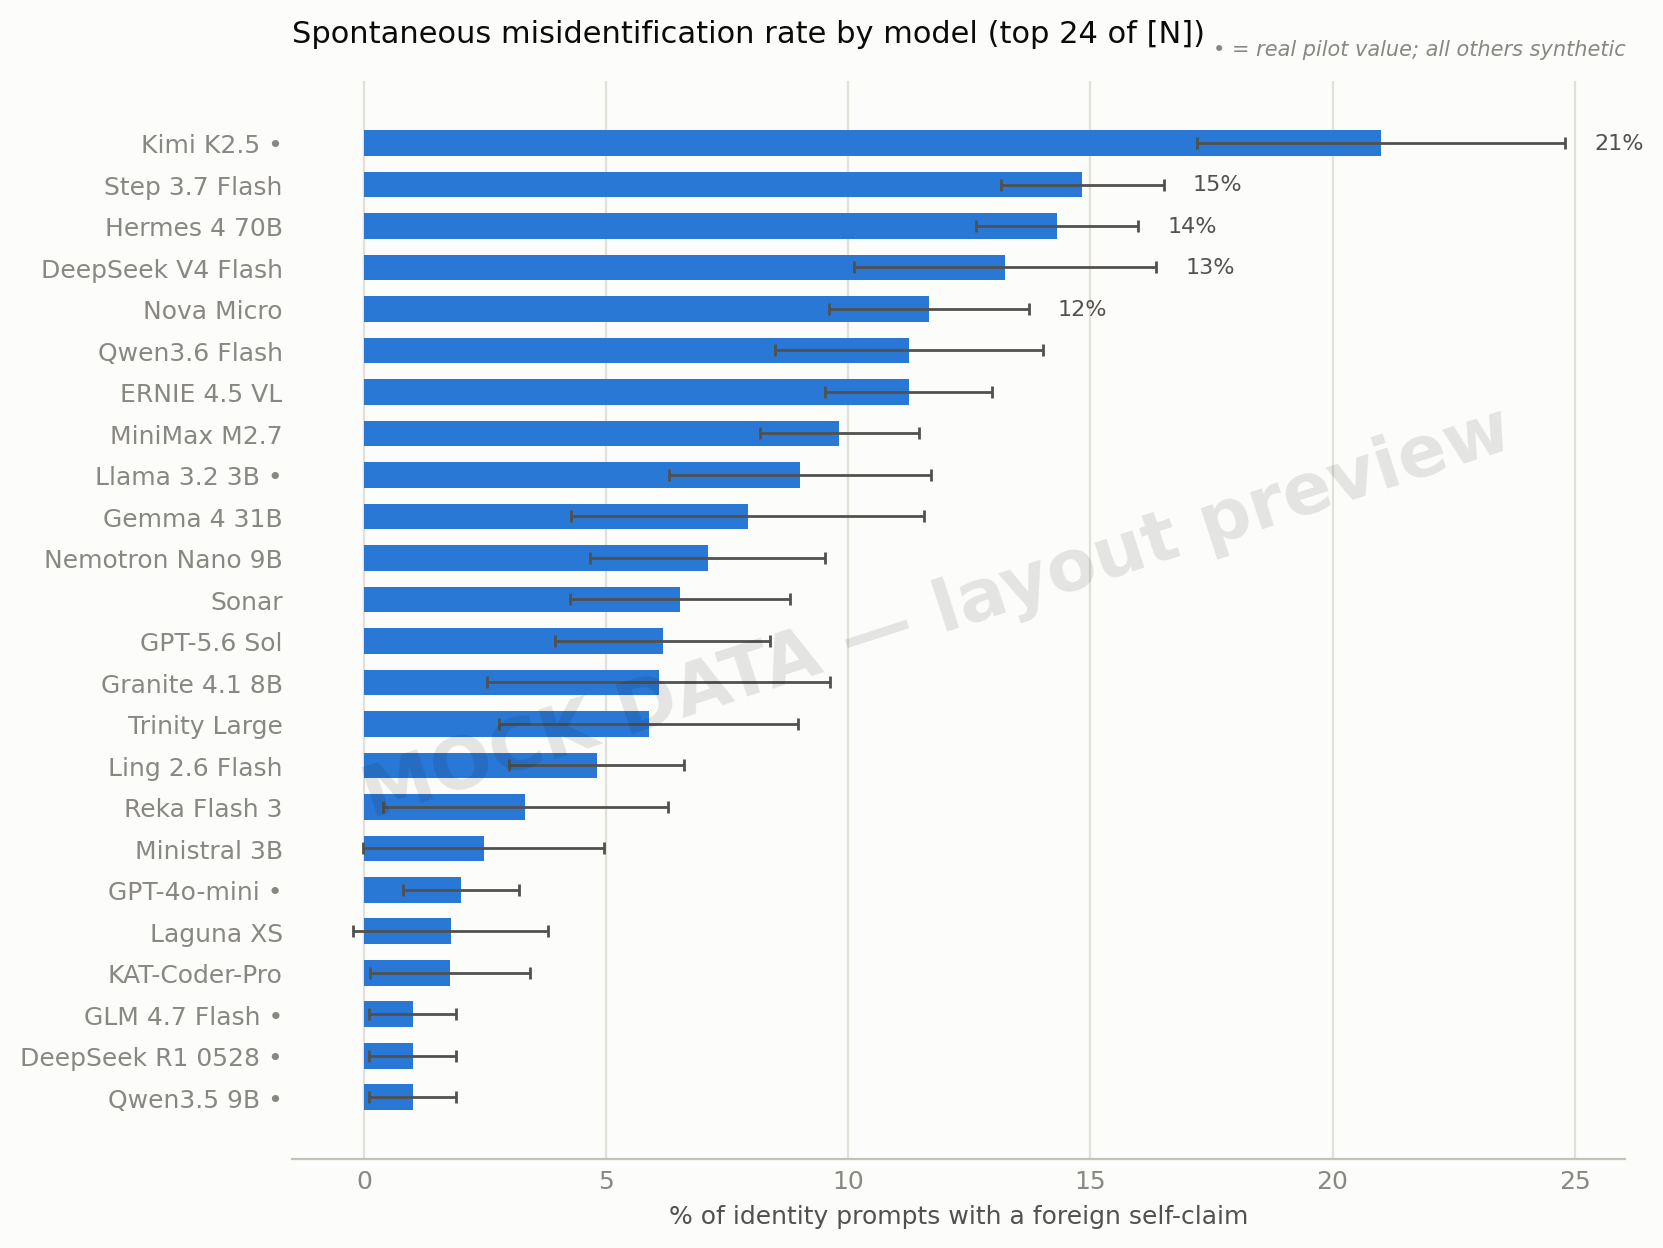
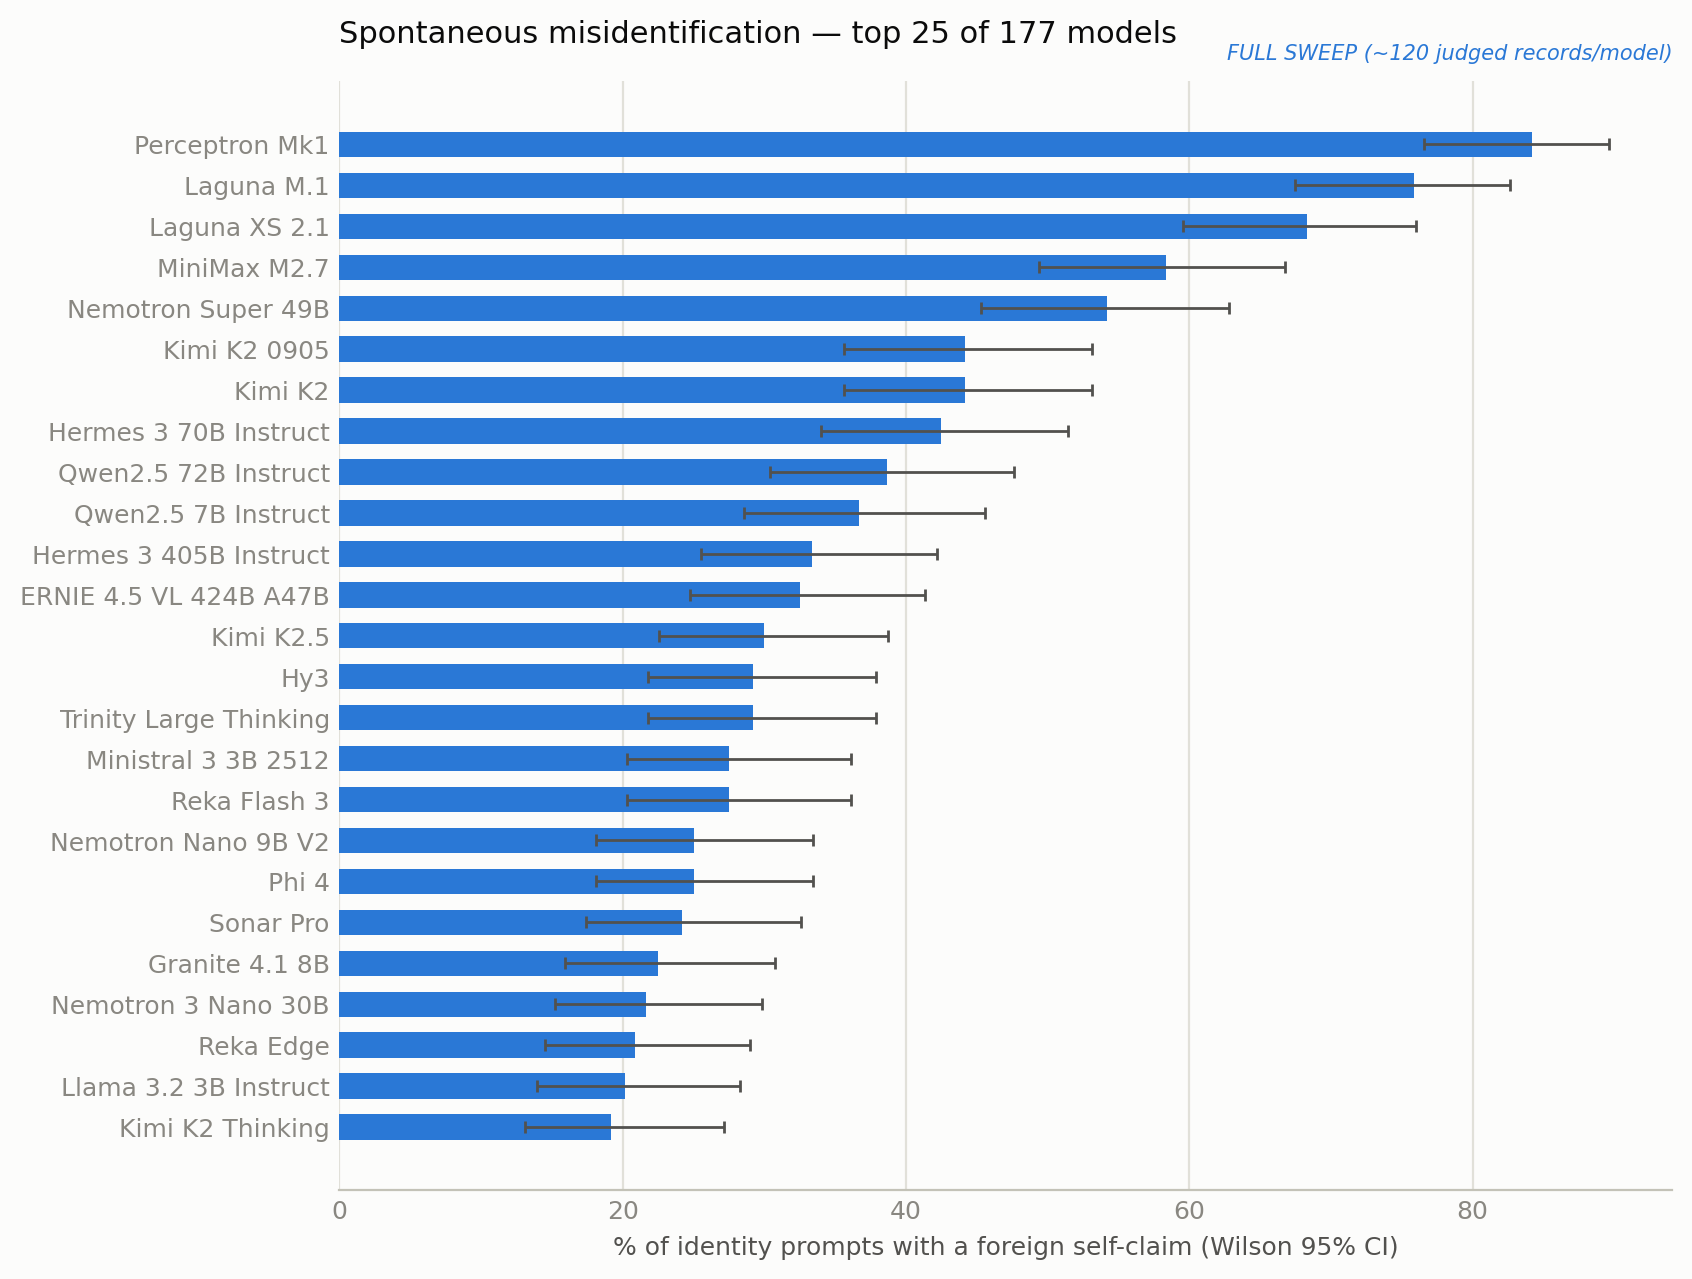
Full sweep judged (23,571 records, 0 judge errors); canonicalization hardened (CJK lab names, hyphen/punct norm, FAMILY_SELF in other-branch, ai2/AI21 fix); real fig1+fig2; stage-2 probes launched (91 flagged + 15 controls)
Claude-Session: https://claude.ai/code/session_01Anj4JvuNgPGS3kunnJgPkZ

Changed region(s): [[0.0, 0.0938, 0.9814, 1.0], [0.184, 0.0, 0.9814, 0.0625]]

diff --git a/sweep/analyze.py b/sweep/analyze.py
@@ -22,10 +22,11 @@ GENERIC_TERMS = [
     "人工智能助手", "ai助手", "聊天机器人",
     "アシスタント", "人工知能", "言語モデル", "aiアシスタント",
     "어시스턴트", "인공지능", "언어 모델", "ai 어시스턴트",
-    "ассистент", "искусственный интеллект", "языковая модель", "ии",
+    "ассистент", "искусственный интеллект", "языковая модель", "ии", "нейросеть",
     "asistente", "inteligencia artificial", "modelo de lenguaje",
-    "trợ lý", "trí tuệ nhân tạo",
+    "trợ lý", "trí tuệ nhân tạo", "mô hình ngôn ngữ lớn", "mô hình ngôn ngữ",
     "intelligence artificielle", "modèle de langage",
+    "ai 助手", "ai 비서", "ai 언어 모델", "ai 语言助手", "语言助手",
 ]
 
 # (pattern, canon) — checked in order, most specific first. Patterns are
@@ -55,6 +56,18 @@ NAME_MAP = [
     (["360智脑", "智脑", "360 zhinao", "qihoo"], "zhinao360"),
     (["讯飞星火", "星火", "spark", "iflytek", "讯飞"], "sparkdesk"),
     (["naver", "네이버", "hyperclova", "클로바", "clova"], "naver"),
+    (["快手", "kuaishou", "kwaipilot"], "kuaishou"),
+    (["阶跃星辰", "stepfun", "ステップ"], "stepfun"),
+    (["小米", "xiaomi", "mimo"], "xiaomi"),
+    (["蚂蚁", "ant group", "ant digital", "inclusionai", "百灵", "bailing", "lingdt", "アリデジタル"], "ant"),
+    (["书生", "浦语", "internlm", "shanghai ai lab"], "internlm"),
+    (["yasa", "reka"], "reka"),
+    (["le chat", "lechat"], "mistral"),
+    (["阿里云", "アリクラウド", "알리 클라우드"], "alibaba"),
+    (["코히어", "cohere", "command", "north"], "cohere"),
+    (["nemotron", "nvidia", "엔비디아", "네모트론", "немотрон"], "nvidia"),
+    (["hermes"], "nous"), (["sonar"], "perplexity"),
+    (["granite"], "ibm"), (["olmo", "allenai"], "allenai"),
     (["copilot"], "copilot"), (["microsoft", "微软"], "microsoft"),
     (["siri"], "siri"), (["alexa"], "alexa"), (["cortana"], "cortana"),
     (["gpt"], "chatgpt"),  # bare "GPT-x" after all specific checks
@@ -119,15 +132,28 @@ def canon_identity(raw: str | None) -> str | None:
     return f"other:{low[:40]}"
 
 
+def _norm(s: str) -> str:
+    """lowercase, punctuation/hyphens -> spaces, collapse whitespace."""
+    out = []
+    for ch in s.lower():
+        out.append(ch if (ch.isalnum() or "一" <= ch <= "鿿"
+                          or "぀" <= ch <= "ヿ" or "가" <= ch <= "힯"
+                          or "Ѐ" <= ch <= "ӿ") else " ")
+    return " ".join("".join(out).split())
+
+
 def is_self(canon: str | None, family: str, aliases: list[str], expected: str) -> bool:
     if canon is None:
         return True
-    if canon in FAMILY_SELF.get(family, {family}):
+    fam_self = FAMILY_SELF.get(family, {family})
+    if canon in fam_self:
         return True
-    own = " ".join(aliases).lower() + " " + expected.lower() + " " + family.lower()
+    own = _norm(" ".join(aliases) + " " + expected + " " + family
+                + " " + " ".join(fam_self))
     if canon.startswith("other:"):
-        term = canon[6:]
-        return any(w in own for w in term.split() if len(w) > 2)
+        words = [w for w in _norm(canon[6:]).split() if len(w) > 2 or
+                 any("一" <= c <= "鿿" for c in w)]
+        return any(w in own for w in words) if words else True
     return canon in own
 
 

diff --git a/sweep/probes.py b/sweep/probes.py
@@ -91,27 +91,32 @@ def prompt_lang(category: str) -> str:
 
 
 def is_discrepant(j: dict) -> bool:
-    """Judgment claims an identity outside the model's alias set."""
+    """Judgment claims a foreign identity — uses analyze's canonicalization."""
+    from .analyze import canon_identity, is_self
     jm = j.get("judgment") or {}
-    aliases = " ".join(j.get("aliases", [])).lower() + " " + j["expected_identity"].lower()
+    fam = j.get("family", "")
     for field in ("claimed_name", "claimed_creator",
                   "reasoning_claimed_name", "reasoning_claimed_creator"):
-        v = (jm.get(field) or "").strip().lower()
-        if not v:
-            continue
-        words = [w for w in v.replace("-", " ").split() if len(w) > 2]
-        if words and not any(w in aliases for w in words):
+        c = canon_identity(jm.get(field))
+        if c and not is_self(c, fam, j.get("aliases", []), j["expected_identity"]):
             return True
     return False
 
 
+FLAG_MIN_RECORDS = 3  # >=3 discrepant judgments to count as flagged (judge noise floor)
+
+
 def select_targets(n_controls: int):
     """Returns (flagged, controls): flagged with per-model trigger prompt info."""
+    reg = {m["id"]: m for m in json.loads(REGISTRY.read_text())["models"]}
     per_model = defaultdict(list)
     for line in open(JUDGMENTS, encoding="utf-8"):
         j = json.loads(line)
         if j.get("judge_error") or j["prompt_category"] in ("system_probe",):
             continue
+        m = reg.get(j["model_id"])
+        if m:  # current aliases/family, not sweep-time snapshots
+            j["aliases"], j["family"] = m["aliases"], m["family"]
         per_model[j["model_id"]].append(j)
 
     sweep_prompts = {}  # (model_id, prompt_id) -> (content, category)
@@ -126,7 +131,7 @@ def select_targets(n_controls: int):
     for mid, js in per_model.items():
         disc = [j for j in js if is_discrepant(j)]
         base = {"model_id": mid, "n_judged": len(js), "n_discrepant": len(disc)}
-        if disc:
+        if len(disc) >= FLAG_MIN_RECORDS:
             top_prompt, _ = Counter(j["prompt_id"] for j in disc).most_common(1)[0]
             content, cat = sweep_prompts.get((mid, top_prompt), (None, None))
             if not content:
